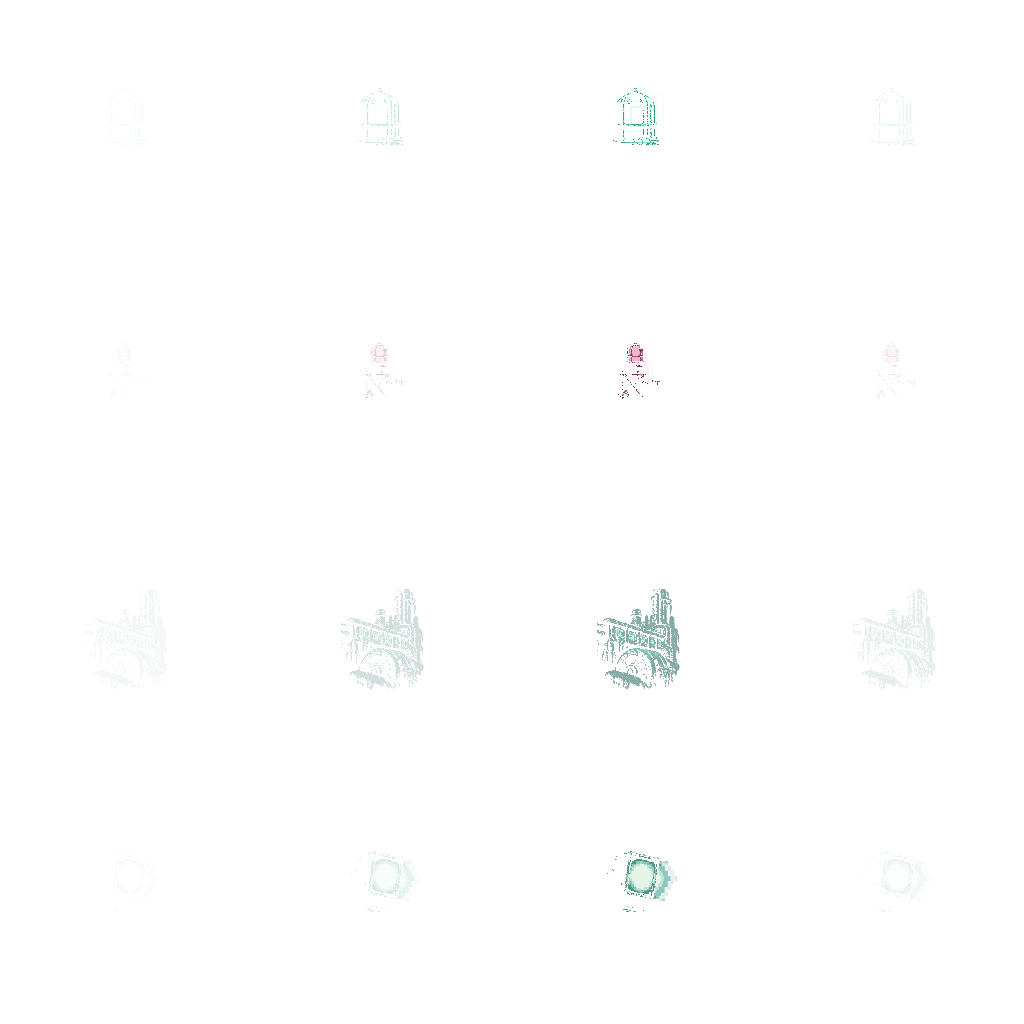
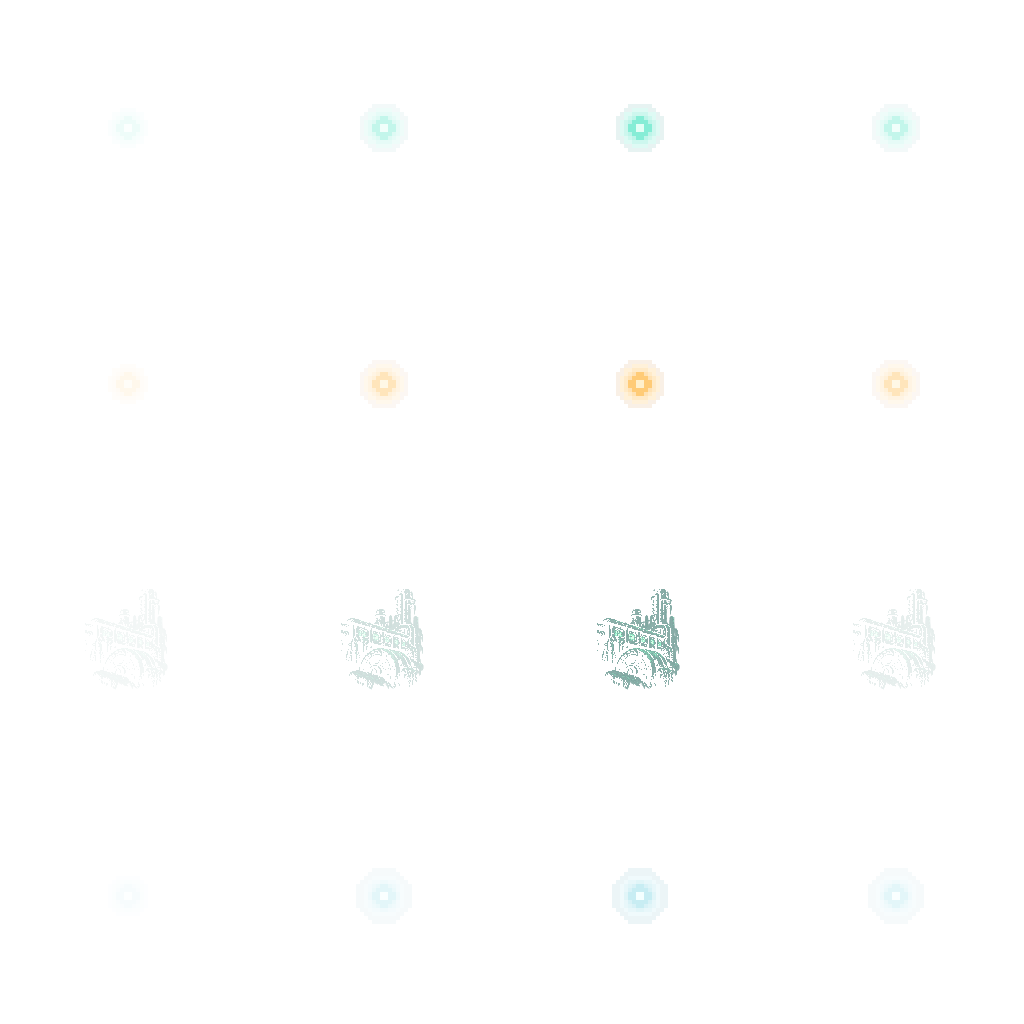
Tide: blinking lamps are plain glow points (no lantern cage), each on its own irregular period

diff --git a/Pause/Assets/Editor/Tests/TideBackdropTest.cs b/Pause/Assets/Editor/Tests/TideBackdropTest.cs
@@ -60,6 +60,7 @@ public static class TideBackdropTest
             Affinity();
             Emitters();
             RunC();
+            Lamps();
             Weather();
             Clouds();
             Brightness();
@@ -607,6 +608,47 @@ public static class TideBackdropTest
             if (d > 255f * 6f) moved++;
         }
         return union == 0 ? 0f : moved / (float)union;
+    }
+
+    // The blinking lamps are plain glow points: a round core and halo, no frame / cage / box / ring, each on its own period.
+    static void Lamps()
+    {
+        int notRadial = 0, wide = 0, pinkish = 0, spreadBad = 0;
+        string worst = "";
+        foreach (var l in TideAmbientCatalog.Table.loops)
+        {
+            if (!TideAmbientCatalog.Blinks(l.name) || !TideAmbientCatalog.Present(l.name)) continue;
+            if (l.spread < .3f) spreadBad++;
+            foreach (var fr in LoopFrames(l.name))
+            {
+                int n = (int)Mathf.Sqrt(fr.Length);
+                // mean alpha per radius ring around the cell centre must never rise going outwards, and nothing sits beyond 60 px
+                var sum = new float[n]; var cnt = new int[n];
+                for (int y = 0; y < n; y++)
+                    for (int x = 0; x < n; x++)
+                    {
+                        var c = fr[y * n + x];
+                        float r = Mathf.Sqrt((x + .5f - n / 2f) * (x + .5f - n / 2f) + (y + .5f - n / 2f) * (y + .5f - n / 2f));
+                        int ri = Mathf.Min(n - 1, (int)r);
+                        sum[ri] += c.a; cnt[ri]++;
+                        if (c.a > 8 && r > 60f) wide++;
+                        if (c.a > 40 && c.r > c.g + 40 && c.b > c.g + 10) pinkish++;
+                    }
+                float prev = float.MaxValue;
+                for (int i = 0; i < 60; i++)
+                {
+                    float m = cnt[i] > 0 ? sum[i] / cnt[i] : 0f;
+                    if (m > prev + .5f) { notRadial++; worst = l.name + " ring " + i; }
+                    prev = m;
+                }
+            }
+        }
+        Check("lamp frames are a round glow: alpha falls off monotonically from the centre, no frame, bars or rings (" + notRadial + " rises " + worst + ")", notRadial == 0);
+        Check("lamp glows stay within 60 px of their centre and are never pink (" + wide + " far px, " + pinkish + " pink px)", wide == 0 && pinkish == 0);
+        Check("every blinking lamp loop jitters its rate +-" + (TideAmbientCatalog.BlinkSpread * 100f).ToString("F0") + "% per light so none blink in step (" + spreadBad + " narrow)", spreadBad == 0);
+        float pmin = TideAmbientCatalog.BlinkPeriodMin, pmax = TideAmbientCatalog.BlinkPeriodMax;
+        Check("blink periods run " + pmin.ToString("F2") + " .. " + pmax.ToString("F2") + " s: gentle (bright phase <= 1 Hz) and irregular (>= 2x spread)",
+              pmin >= 1.2f && pmax <= 3.3f && pmax / pmin >= 2f);
     }
 
     static void RunC()

diff --git a/Pause/Assets/Scripts/Worlds/Backdrop/TideAmbient.cs b/Pause/Assets/Scripts/Worlds/Backdrop/TideAmbient.cs
@@ -50,8 +50,8 @@ public static class TideAmbientCatalog
         ("flare", "flames", 10f, .82f, 1f, false), ("flare_b", "flames", 10f, .78f, 1f, false), ("burn", "flames_2", 8f, .62f, 1f, true),
         ("steam_vent", "leaks", 7f, .56f, 1.3f, false), ("bubble_stream", "leaks", 8f, .65f, 1.2f, false),
         ("pipe_drip", "leaks", 6f, .55f, 1f, false), ("plankton_glow", "leaks_2", 6f, .42f, 1f, true),
-        ("beacon_mint", "lights", 4f, .85f, 1.4f, true), ("beacon_pink", "lights", 4f, .55f, 1.4f, true),
-        ("strobe_white", "lights", 5f, .66f, 1.2f, true), ("window_lights", "lights", 5f, .5f, 1f, true),
+        ("beacon_mint", "lights", BlinkFps, .85f, 1.4f, true), ("beacon_pink", "lights", BlinkFps, .55f, 1.4f, true),
+        ("strobe_white", "lights", BlinkFps, .66f, 1.2f, true), ("window_lights", "lights", 5f, .5f, 1f, true),
         ("searchlight_sweep", "lights_2", 8f, .35f, 1f, true), ("lighthouse_beam", "lights_2", 7f, .37f, 1f, true),
         ("wave_crest_a", "surf", 8f, .46f, 1f, true), ("wave_crest_b", "surf", 8f, .46f, 1f, true),
         ("foam_ring", "surf_2", 8f, .46f, 1f, true), ("ripple", "surf_2", 8f, .46f, 1f, true),
@@ -148,7 +148,7 @@ public static class TideAmbientCatalog
                 var s = Specs[i];
                 Vector2 anchor = s.centred ? new Vector2(128f, 128f) : new Vector2(128f, 236f);
                 foreach (var m in data.loops) if (m.name == s.name) anchor = new Vector2(m.x, m.y);
-                loops[i] = new FrostAmbientCatalog.Loop { name = s.name, atlas = s.atlas, fps = s.fps, alpha = s.alpha, scale = s.scale, anchor = anchor };
+                loops[i] = new FrostAmbientCatalog.Loop { name = s.name, atlas = s.atlas, fps = s.fps, alpha = s.alpha, scale = s.scale, anchor = anchor, spread = Blinks(s.name) ? BlinkSpread : 0f };
             }
             var bindings = new List<FrostAmbientCatalog.Binding>();
             foreach (var p in data.pieces)
@@ -173,6 +173,13 @@ public static class TideAmbientCatalog
     }
 
     public const int MaxPerPiece = 4;
+
+    // A lamp is a plain glow point (no lantern frame) that blinks on its own: 4 frames (dark, rising, lit, fading) at
+    // BlinkFps +- BlinkSpread, so each light's period is 4 / fps = 1.3 .. 3.1 s, never in step, and its bright frame
+    // lasts a quarter of that (<= 0.8 s, well under 1 Hz).
+    public const float BlinkFps = 2.2f, BlinkSpread = .4f;
+    public static float BlinkPeriodMin { get { return 4f / (BlinkFps * (1f + BlinkSpread)); } }
+    public static float BlinkPeriodMax { get { return 4f / (BlinkFps * (1f - BlinkSpread)); } }
 
     // Drop the cached data (after re-measuring in the editor, after installing run C; tests).
     public static void Reload() { data = null; byName = null; table = null; installed = null; }

diff --git a/scripts/tools/tide_lights_repaint.py b/scripts/tools/tide_lights_repaint.py
@@ -1,0 +1,51 @@
+#!/usr/bin/env python3
+"""Repaint Tide's blinking lamps (lights.png: beacon_mint, beacon_pink, strobe_white) as plain
+glow points: a small core and a stepped round halo, no lantern frame, cage, box or ring.
+Cells (256x256), names and the centre anchor are unchanged; window_lights is left untouched.
+Usage: tide_lights_repaint.py <Backdrop3 dir>"""
+import json, sys, math
+from PIL import Image
+
+B = 4                       # pixel-art block, in cell pixels
+# name -> (core, glow, halo colours, halo radius in blocks)
+LAMPS = {
+    "beacon_mint":  ((226, 255, 246), (104, 232, 204), (38, 150, 138), 8),
+    "beacon_pink":  ((255, 240, 204), (255, 190, 84), (196, 118, 30), 8),   # an amber navigation lamp (no pink outside Space)
+    "strobe_white": ((244, 255, 255), (186, 232, 240), (84, 160, 184), 9),
+}
+FRAMES = [.14, .5, 1.0, .5]     # dark, rising, lit, fading (peak vs dimmest well over 4x)
+
+def lamp(name, k):
+    core, glow, halo, R = LAMPS[name]
+    n = 256 // B
+    img = Image.new("RGBA", (256, 256), (0, 0, 0, 0))
+    px = img.load()
+    c = n / 2 - .5
+    for gy in range(n):
+        for gx in range(n):
+            r = math.hypot(gx - c, gy - c)
+            if r > R: continue
+            if r <= 1.1: col, a = core, 1.0
+            elif r <= 2.6: col, a = glow, .8
+            else:
+                t = 1 - (r - 2.6) / (R - 2.6)
+                a = round(t * t * 5) / 5 * .55          # stepped, radially monotone
+                col = halo if t < .55 else glow
+                if a <= 0: continue
+            if a * k <= .02: continue
+            for y in range(B):
+                for x in range(B):
+                    px[gx * B + x, gy * B + y] = col + (int(255 * min(1, a * k)),)
+    return img
+
+d = sys.argv[1]
+atlas = Image.open(d + "/lights.png").convert("RGBA")
+for s in json.load(open(d + "/lights.json"))["sprites"]:
+    for name in LAMPS:
+        if s["n"].startswith(name + "_"):
+            k = FRAMES[int(s["n"][-2:])]
+            top = 1024 - s["y"] - s["h"]            # json y counts from the bottom
+            box = (s["x"], top, s["x"] + s["w"], top + s["h"])
+            atlas.paste(Image.new("RGBA", (s["w"], s["h"]), (0, 0, 0, 0)), box)
+            atlas.alpha_composite(lamp(name, k), (s["x"], top))
+atlas.save(d + "/lights.png")

diff --git a/Pause/Assets/Scripts/Worlds/Backdrop/FrostAmbient.cs b/Pause/Assets/Scripts/Worlds/Backdrop/FrostAmbient.cs
@@ -155,6 +155,7 @@ public static class FrostAmbientCatalog
     {
         public string name, atlas;
         public float fps, alpha, scale;
+        public float spread;        // per-light fps jitter (0 = the default +-10%); Tide's lamps use a wide one so no two blink in step
         public float tone;          // colour multiplier of the drawn loop (0 = untouched, 1): darkens light plumes (Ember's ash smoke, so shots stay readable over it)
         public Vector2 anchor;      // cell pixels from the top-left
     }
@@ -406,7 +407,8 @@ public class AmbientEmitters
             slot.loop = li;
             slot.boost = Table.lifted(loop.atlas) ? 1f : -1f;
             slot.frames = frames[li];
-            slot.fps = loop.fps * (.9f + .2f * (float)rng.NextDouble());
+            float spr = loop.spread > 0f ? loop.spread : .1f;
+            slot.fps = loop.fps * (1f - spr + 2f * spr * (float)rng.NextDouble());
             slot.alpha = loop.alpha * e.alpha;
             slot.tone = loop.tone > 0f ? loop.tone : 1f;
             slot.phase = (float)rng.NextDouble() * slot.frames.Length / Mathf.Max(.01f, slot.fps);
